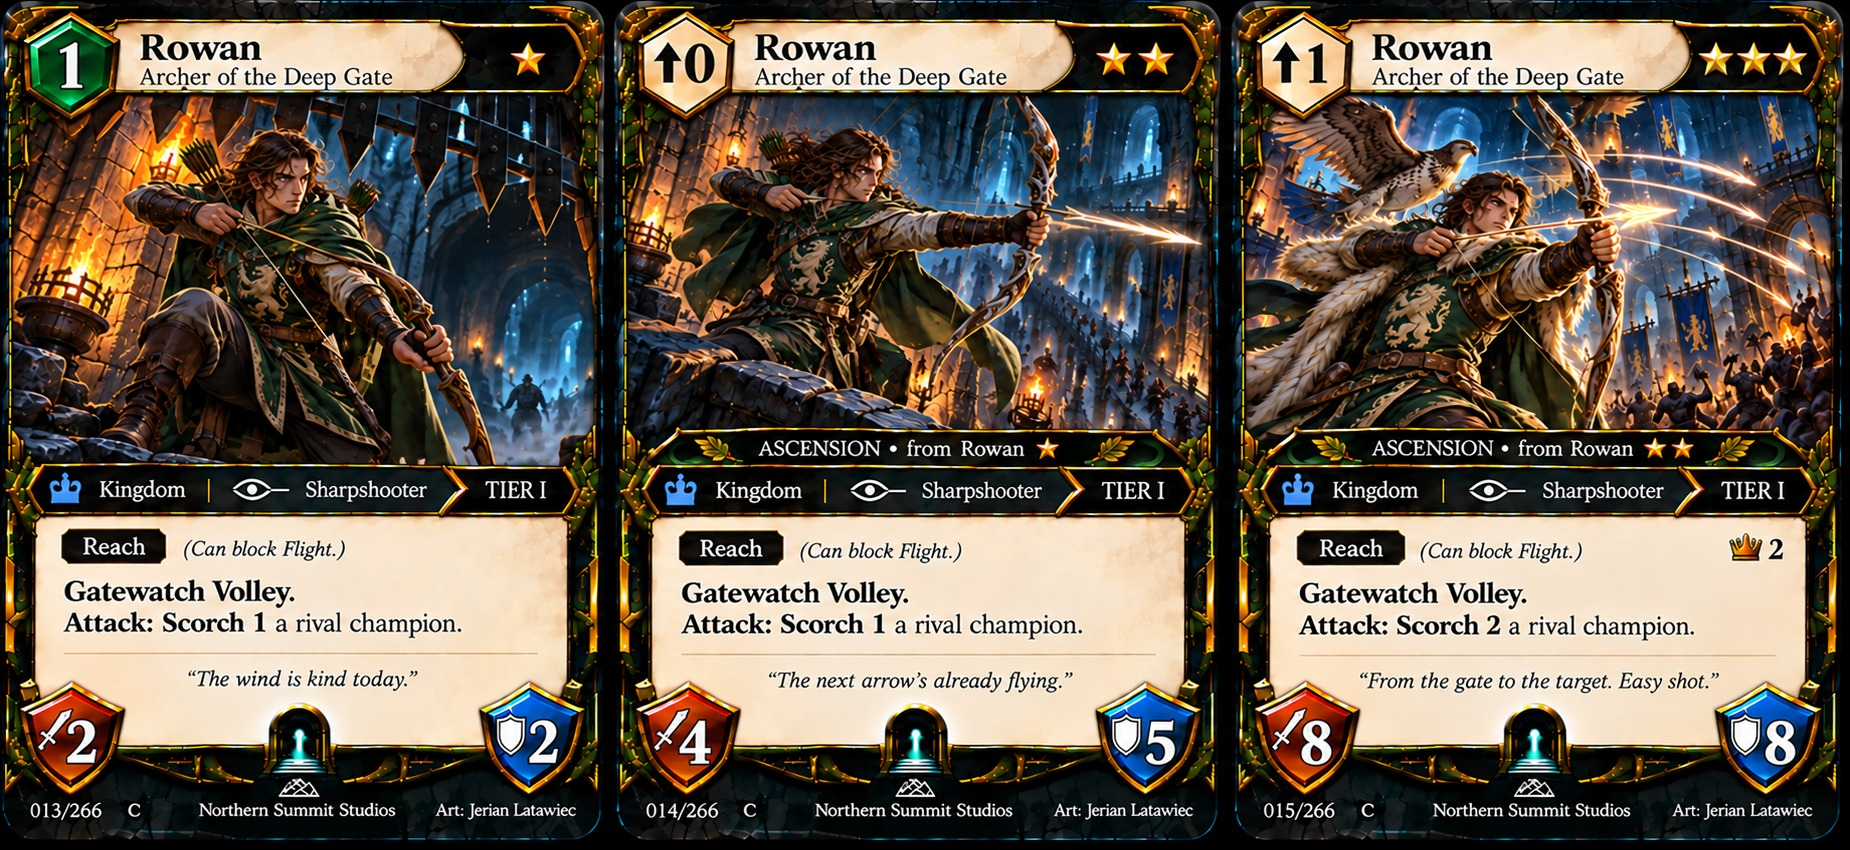
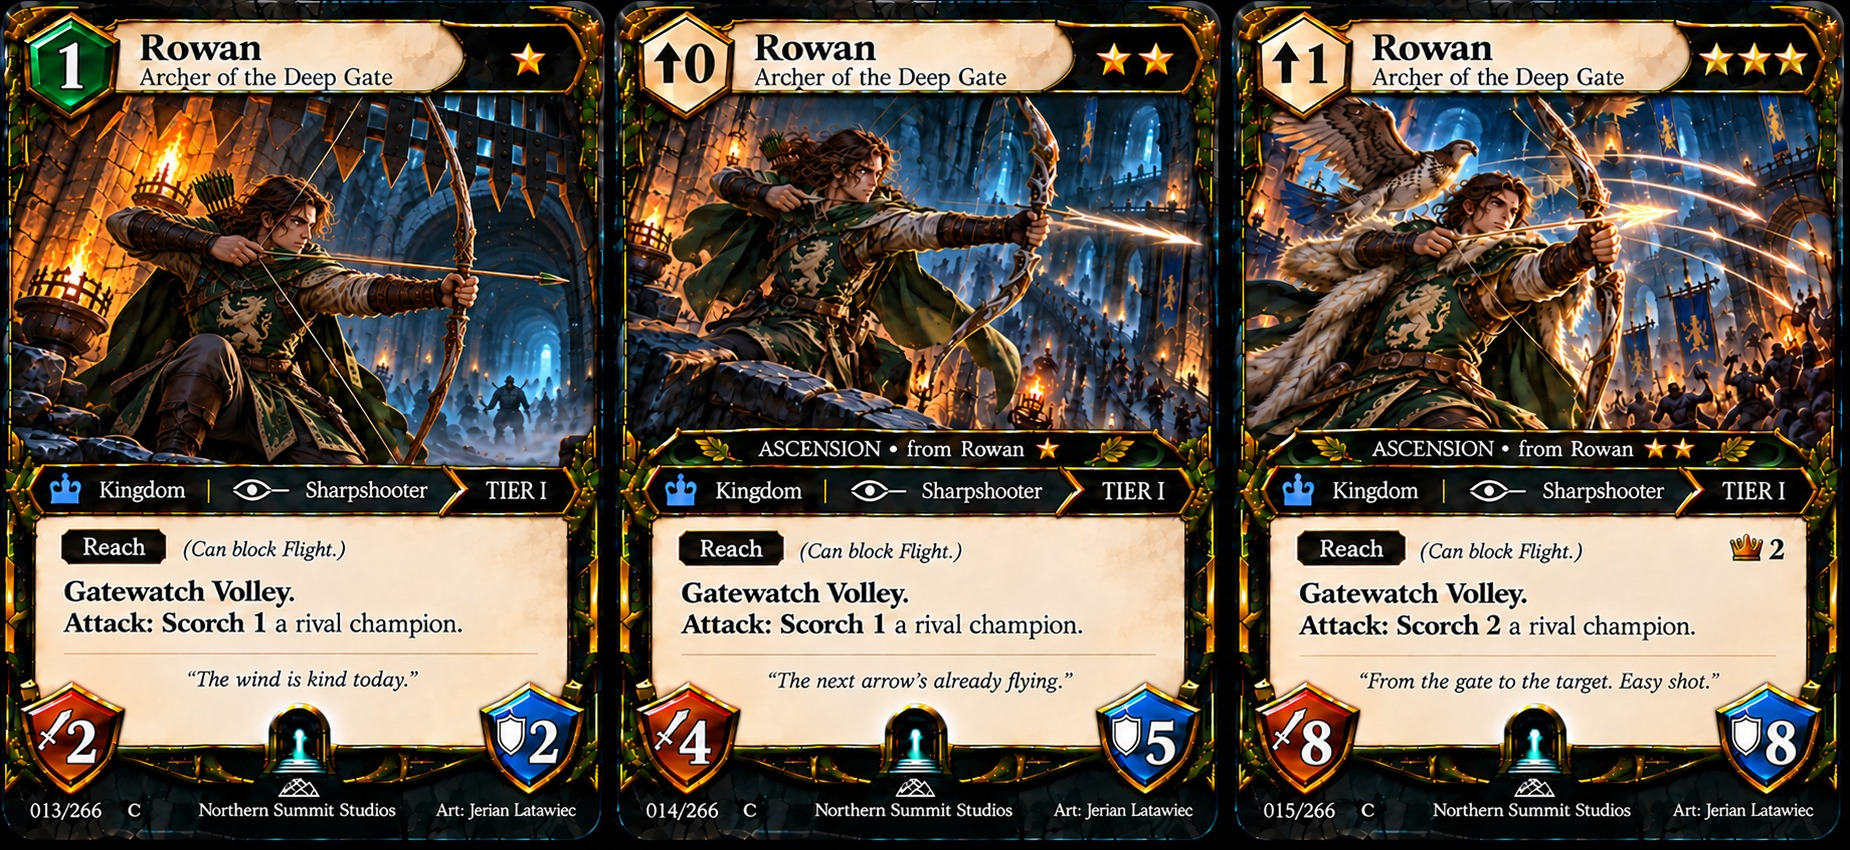
art(set2): 013 Rowan fixed (upright bow, nocked arrow) and approved

diff --git a/prototype-v0.2/card-prompts/set2-in-order/ORDER.md b/prototype-v0.2/card-prompts/set2-in-order/ORDER.md
@@ -8,7 +8,7 @@ Generated by `npm run proto:cardprompts`. Finished card numbers go in DONE.txt a
 | 004, 005, 006 | done | |
 | 007, 008, 009 | done | |
 | 010, 011, 012 | done | |
-| 013, 014, 015 | 013 Rowan ★ | set2-in-order/sheet-013-015.txt |
+| 013, 014, 015 | done | |
 | 016, 017, 018 | 016 Bolt ★ · 017 Bolt ★★ · 018 Kael ★ | set2-in-order/sheet-016-018.txt |
 | 019, 020, 021 | 019 Solenne Ash ★ · 020 Solenne Ash ★★ · 021 Grizz ★ | set2-in-order/sheet-019-021.txt |
 | 022, 023, 024 | 022 Grizz ★★ · 023 Gearwick-9 ★ · 024 Mirella ★ | set2-in-order/sheet-022-024.txt |
